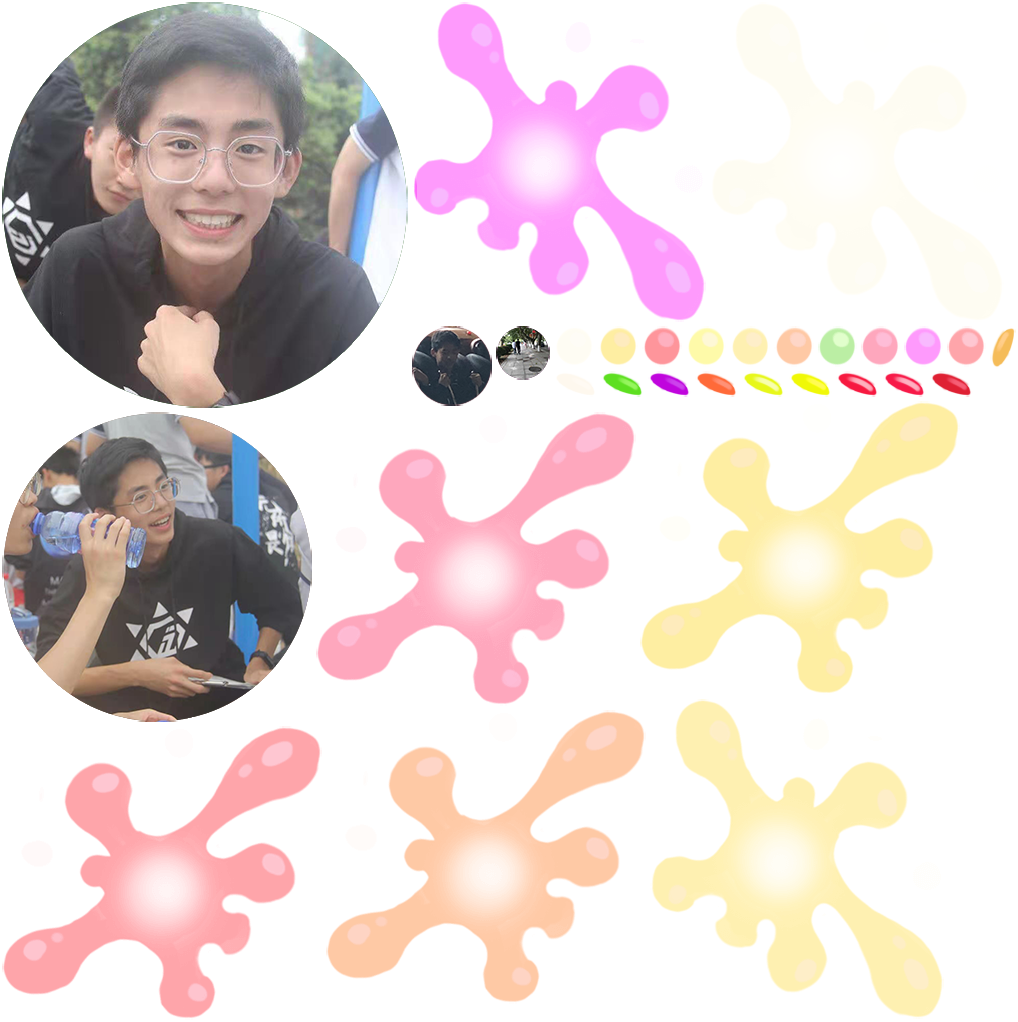
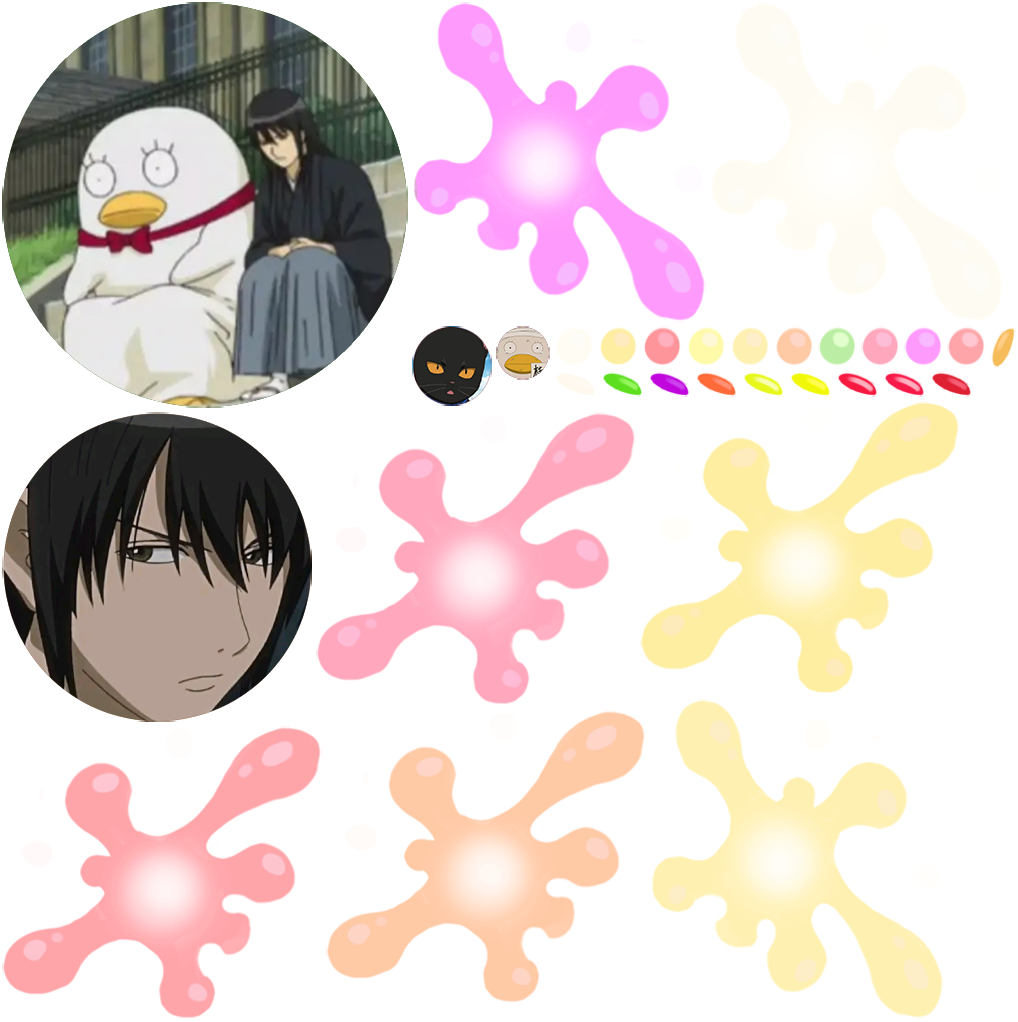
nitial commit

Changed region(s): [[0.0, 0.0, 0.4263, 0.728], [0.3959, 0.3033, 0.5481, 0.3943]]

diff --git a/index.html b/index.html
@@ -4,7 +4,7 @@
 <head>
     <meta charset="utf-8">
 
-    <title>合成无尾熊</title>
+    <title>合成桂小太郎</title>
 
     <!--http://www.html5rocks.com/en/mobile/mobifying/-->
     <meta name="viewport" content="width=device-width,user-scalable=no,initial-scale=1, minimum-scale=1,maximum-scale=1" />
@@ -109,7 +109,7 @@
             //        console.log("window.navigator.language",window.navigator.language);
 
             if (window.navigator.language == "zh-CN" || window.navigator.language == "zh-cn") {
-                document.title = "合成无尾熊";
+                document.title = "合成桂小太郎";
             } 
 
 
